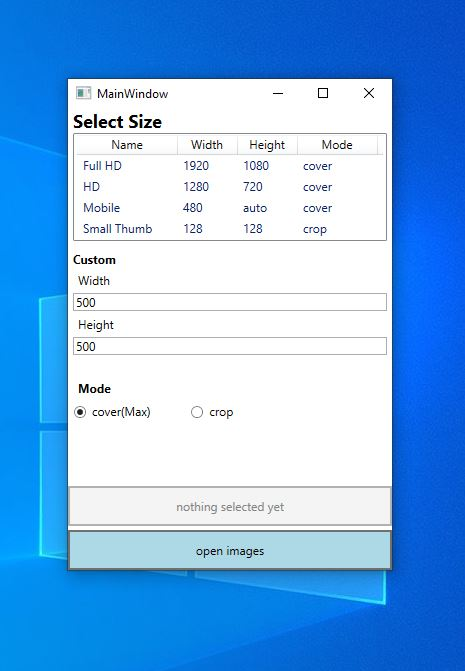
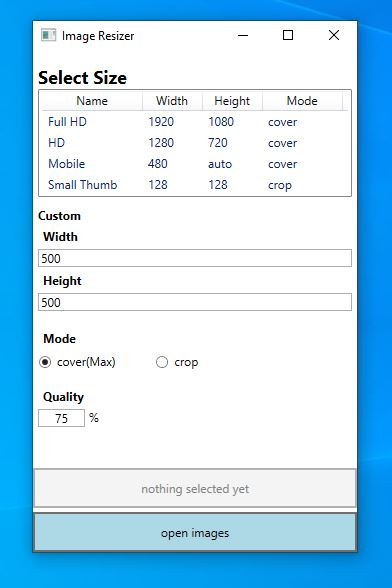
app title changed and jpeg quality options added

diff --git a/imgResize/MainWindow.xaml b/imgResize/MainWindow.xaml
@@ -5,13 +5,13 @@
         xmlns:mc="http://schemas.openxmlformats.org/markup-compatibility/2006"
         xmlns:local="clr-namespace:imgResize"
         mc:Ignorable="d"
-        Title="MainWindow" Height="540" Width="340">
+        Title="Image Resizer" Height="540" Width="340">
     <Window.Resources>
         <local:SettingsValueConverter x:Key="SettingsValueConverter"></local:SettingsValueConverter>
     </Window.Resources>    
     <Grid >
         <StackPanel
-            Margin="5 0"
+            Margin="5 14 5 0"
         >
             <TextBlock
                 FontWeight="Bold"
